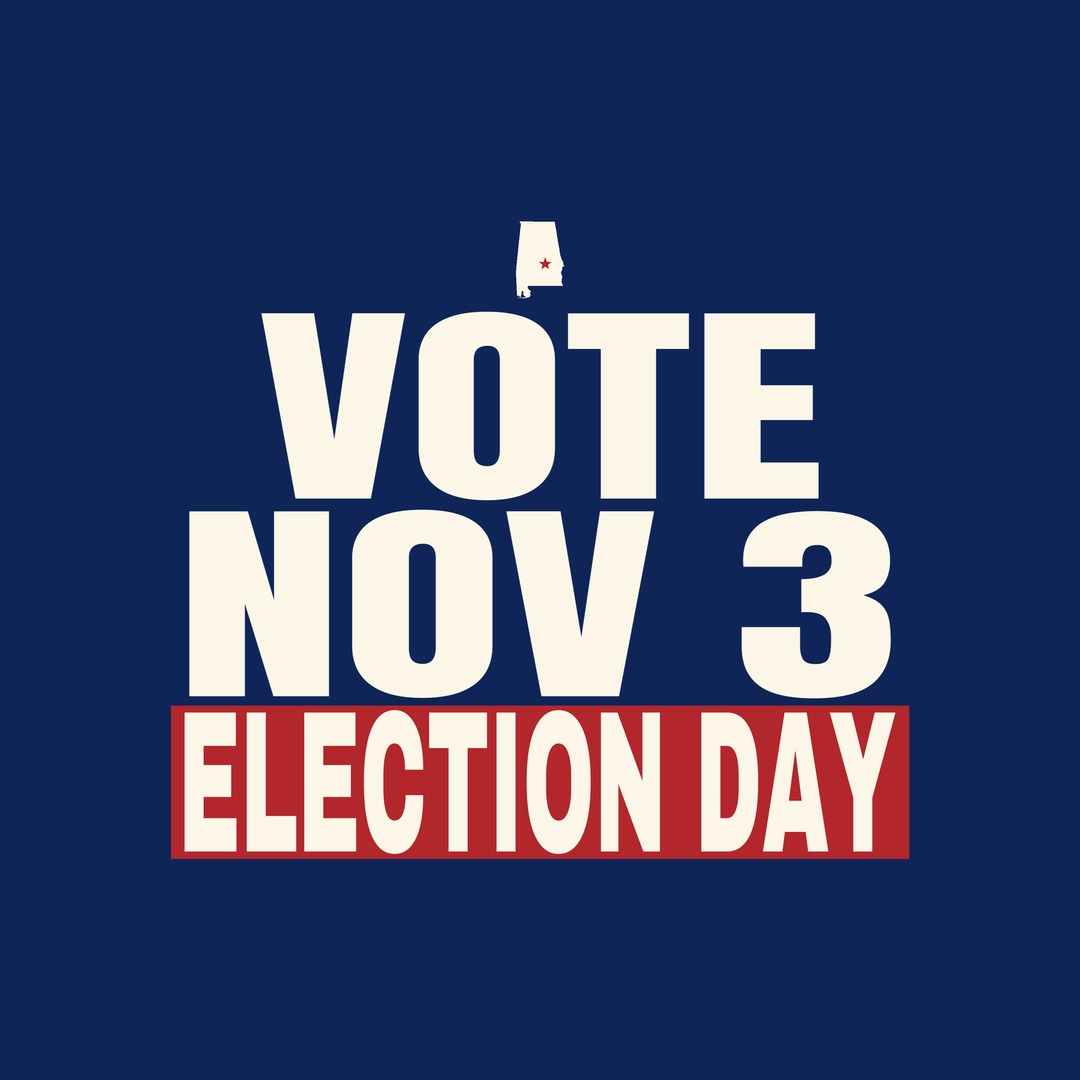
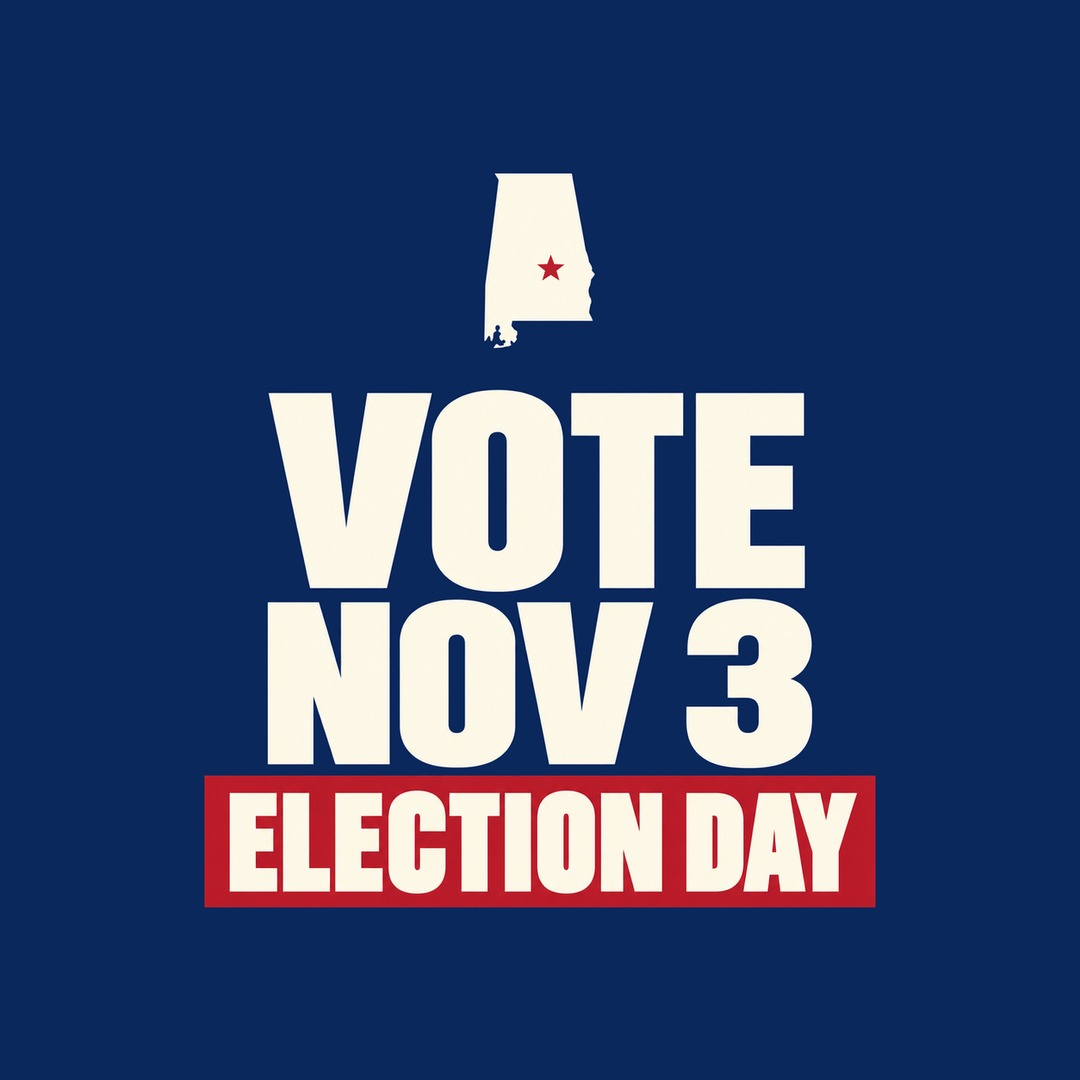
Alabama: ten new ready-mades from Codex; retire the earlier set
Claude-Session: https://claude.ai/code/session_01U4jJBSt3CnGjJYrtPzNn5q

Changed region(s): [[0.1528, 0.1528, 0.8556, 0.8556]]

diff --git a/site/index.php b/site/index.php
@@ -83,7 +83,7 @@ function vote_files( $abbr ) {
 
 // The state hero shows one standout ready-made, tilted (October 20, Garrett): the design named here,
 // or the first in the set. Numbers match <abbr>-vote-N.jpg.
-const VOTE_HERO = array( 'MS' => 5, 'MI' => 7, 'ID' => 7, 'NJ' => 5, 'OR' => 5, 'MN' => 6, 'NE' => 6 );
+const VOTE_HERO = array( 'MS' => 5, 'MI' => 7, 'ID' => 7, 'NJ' => 5, 'OR' => 5, 'MN' => 6, 'NE' => 6, 'AL' => 6 );
 function vote_hero_file( $abbr ) {
 	$n = VOTE_HERO[ $abbr ] ?? 0;
 	$k = strtolower( $abbr );
